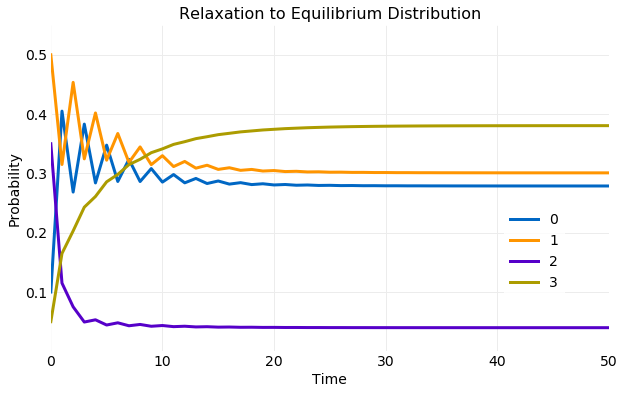
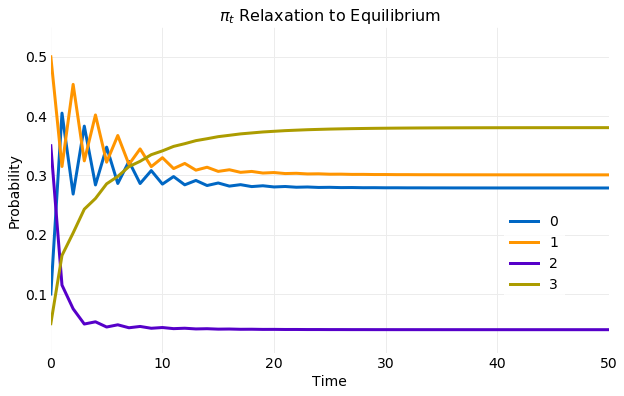
plot and notation updates

diff --git a/hydrogen_notebooks/mcmc/markov_chain_equilibium.py b/hydrogen_notebooks/mcmc/markov_chain_equilibium.py
@@ -94,7 +94,7 @@ def relaxation_plot(πt, nsteps, plot_name):
     figure, axis = pyplot.subplots(figsize=(10, 6))
     axis.set_xlabel("Time")
     axis.set_ylabel("Probability")
-    axis.set_title("Relaxation to Equilibrium Distribution")
+    axis.set_title(r"$\pi_t$ Relaxation to Equilibrium")
     axis.set_ylim([0, 0.55])
     axis.set_yticks([0.1, 0.2, 0.3, 0.4, 0.5])
     axis.set_xlim([0, nsteps])
@@ -104,7 +104,6 @@ def relaxation_plot(πt, nsteps, plot_name):
     axis.plot(steps, [πt[i][0, 3] for i in steps], label=f"3", lw="3", zorder=10)
     axis.legend(bbox_to_anchor=(0.8, 0.15))
     config.save_post_asset(figure, "discrete_state_markov_chain_equilibrium", plot_name)
-
 
 relaxation_plot(πt, nsteps, "distribution_relaxation_1")
 
@@ -154,7 +153,7 @@ config.save_post_asset(figure, "discrete_state_markov_chain_equilibrium", "simul
 
 # %%
 
-s = numpy.concatenate((p.T - numpy.eye(4), [numpy.ones(4)]))
+E = numpy.concatenate((p.T - numpy.eye(4), [numpy.ones(4)]))
 πe, _, _, _ = numpy.linalg.lstsq(s, numpy.array([0.0, 0.0, 0.0, 0.0, 1.0]), rcond=None)
 
 # %%

diff --git a/hydrogen_notebooks/mcmc/markov_chain_diagonalization.py b/hydrogen_notebooks/mcmc/markov_chain_diagonalization.py
@@ -14,11 +14,11 @@ p = numpy.matrix(t)
 
 # %%
 
-eigenvalues, eigenvectors = numpy.linalg.eig(p)
-eigenvalues
-eigenvectors
-Λ = numpy.diag(eigenvalues)
-V = numpy.matrix(eigenvectors)
+λ, v = numpy.linalg.eig(p)
+λ
+v
+Λ = numpy.diag(λ)
+V = numpy.matrix(v)
 V_inv = numpy.linalg.inv(V)
 
 Λ_t = Λ**100
